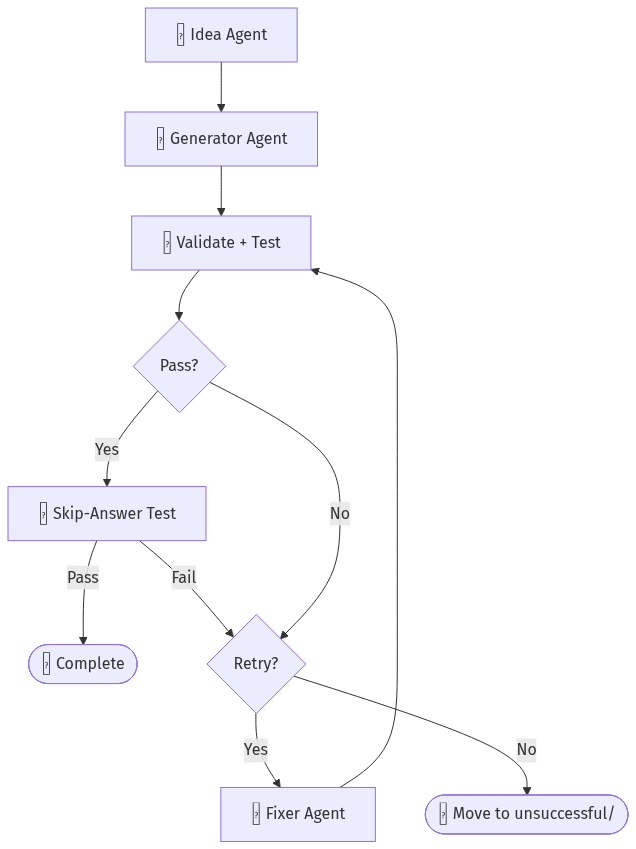
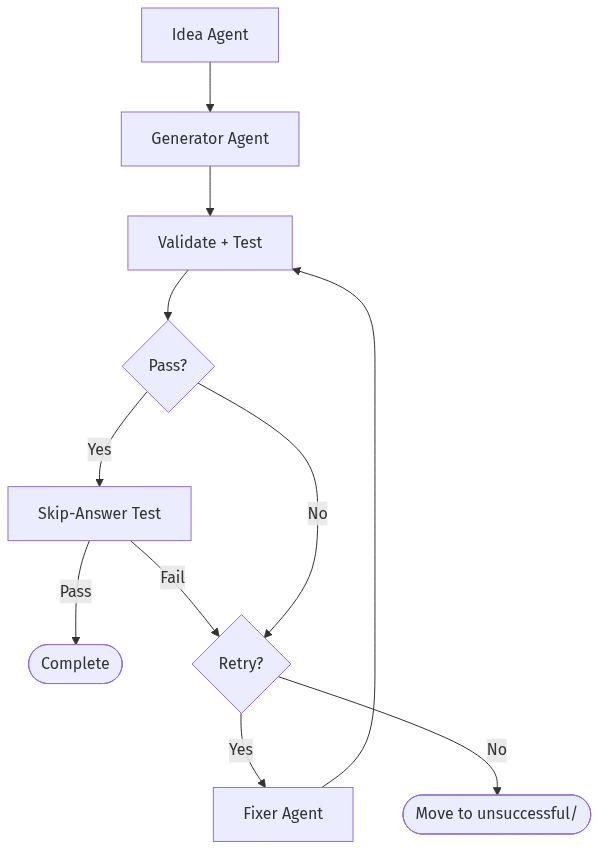
feat: Add diagrams to deep dive documentation for enhanced clarity

diff --git a/deep-dive-multi-agent-workflow-architecture.md b/deep-dive-multi-agent-workflow-architecture.md
@@ -239,6 +239,8 @@ flowchart TD
     LOOP -->|No| FAIL([❌ Move to unsuccessful/])
 ```
 
+![Rule Builder Workflow](docs/diagrams/deep-dive-diagram-1.png)
+
 ## Multi-graph architecture views
 
 ### 1) Control-plane graph (orchestration DAG)
@@ -263,6 +265,8 @@ flowchart LR
     N --> O[fixer_agent]
     O --> C
 ```
+
+![Control-plane graph](docs/diagrams/deep-dive-diagram-2.png)
 
 ### 2) Runtime sequence (who calls what)
 
@@ -295,6 +299,8 @@ sequenceDiagram
     end
 ```
 
+![Runtime sequence](docs/diagrams/deep-dive-diagram-3.png)
+
 ### 3) State machine (task lifecycle)
 
 ```mermaid
@@ -314,6 +320,8 @@ stateDiagram-v2
     FailedTerminal --> [*]
 ```
 
+![Task lifecycle state machine](docs/diagrams/deep-dive-diagram-4.png)
+
 ### 4) Prompt lifecycle graph (how prompts evolve)
 
 ```mermaid
@@ -328,6 +336,8 @@ flowchart TD
     P6 --> P3
     P7 --> P3
 ```
+
+![Prompt lifecycle graph](docs/diagrams/deep-dive-diagram-5.png)
 
 ### 5) MCP + Kubernetes execution boundary graph
 
@@ -356,6 +366,8 @@ flowchart LR
     Repo --> V
     V --> T
 ```
+
+![MCP and Kubernetes execution boundary](docs/diagrams/deep-dive-diagram-6.png)
 
 ## Core Agent Framework Primitives Used
 